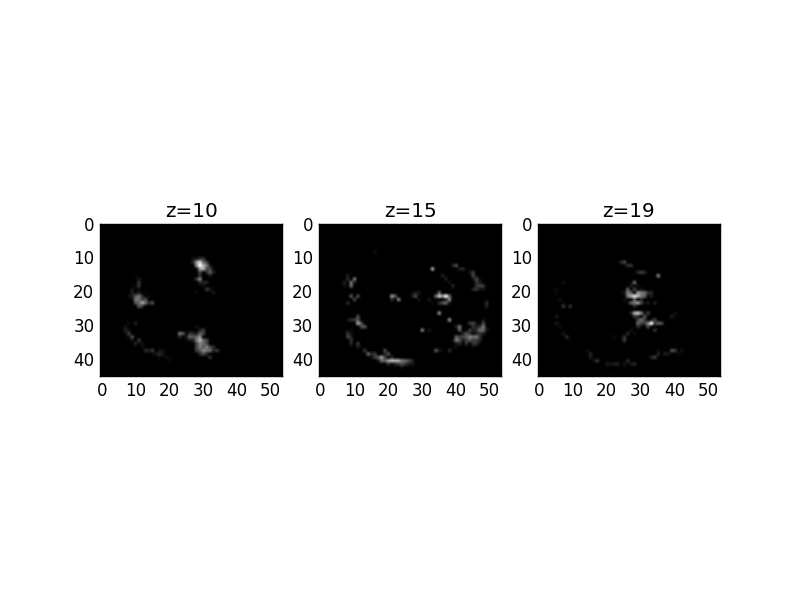
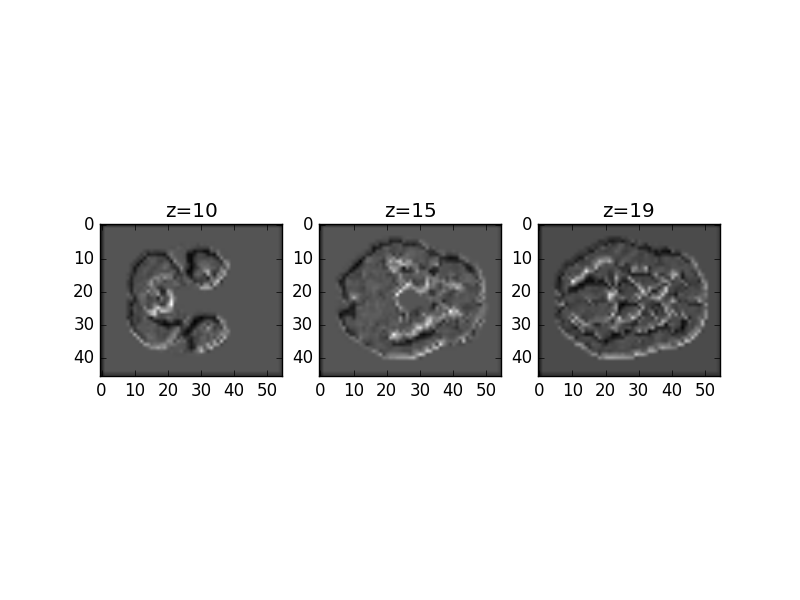
OUR AUTOENCODER GIVES RESULTSgit add .git add .!

Changed region(s): [[0.0938, 0.36, 0.9062, 0.66]]

diff --git a/ConvolutionalNN.py b/ConvolutionalNN.py
@@ -32,7 +32,7 @@ class Layers(object):
         next_layer = tf.nn.dropout(prev_layer, p_keep)
         return next_layer
 
-    def batch_norm(self, prev_layer, mu_shape, sig_shape, beta_shape,scale_shape, var_eps = 1e-6):
+    def batch_norm(self, prev_layer, mu_shape, sig_shape, beta_shape,scale_shape, var_eps = 1e-3):
         mu = self.init_weights(mu_shape)
         sigma = self.init_weights(sig_shape)
         beta = self.init_weights(beta_shape)
@@ -47,7 +47,7 @@ class Layers(object):
 
     def cost_function(self, model_output, Y):
         # print("The shape of the model output is: " + str(model_output.get_shape()))
-        cost = tf.reduce_sum(tf.square(model_output - Y))
+        cost = tf.reduce_mean(tf.square(model_output - Y))
         return cost
 
     def minimization_function(self, cost, learning_rate, beta1, beta2, opt='Rmsprop'):
@@ -61,9 +61,25 @@ class Layers(object):
 
         return train_op
 
-    def add_regularization(self, loss, wgt, lmbda):
-        nextLoss = loss + lmbda*tf.nn.l2_loss(wgt)
+    def add_regularization(self, loss, wgt, lmbda, rho, op='kl'):
+        nextLoss = None
+        if op == 'l2':
+            nextLoss = tf.add(loss, lmbda*tf.nn.l2_loss(wgt))
+        elif op == 'kl':
+            nextLoss = tf.add(loss, tf.mul(lmbda, self.kl_sparse_regularization(wgt, lmbda, rho)))
         return nextLoss
+
+    def kl_sparse_regularization(self, wgt, lmbda, rho):
+        rho_hat = tf.reduce_mean(wgt)
+        invrho = tf.sub(tf.constant(1.), rho)
+        invrhohat = tf.sub(tf.constant(1.), rho_hat)
+        logrho = tf.add(self.logfunc(rho,rho_hat), self.logfunc(invrho, invrhohat))
+        return logrho
+
+    def logfunc(self, x1, x2):
+        clippDiv = tf.clip_by_value(tf.div(x1,x2),1e-12,1e10)
+        return tf.mul( x1,tf.log(clippDiv))
+
 
     def prediction(self, model_output):
         predict_op = tf.argmax(model_output, 1)

diff --git a/run.py b/run.py
@@ -20,9 +20,15 @@ def createAutoEncoderModel():
     allNames = ["layer1_filters","layer2_filters","layer3_filters","layer4_filters","layer5_filters","layer6_filters",
                 "layer7_filters","layer8_filters","layer9_filters","layer10_filters"]
     allRelu = [True]*4
-    allBatch = [True]*4
+    allBatch = [False]*4
+
+    # We do not need ReLUs in the encoder layer and the decode layer
+    allRelu[1] = False
+    allRelu[3] = False
+    allBatch[1] = False
+    allBatch[3] = False
     layer_outputs, weights, weight_shapes, encode, decode = cae.build_model(2, allFilters, allStrides, allNames, allRelu, allBatch)
-    
+
     print("Setting up the Training model of the Autoencoder")
     cost, train_op = cae.train()
     return layer_outputs, weights, weight_shapes, encode, decode, cost, train_op
@@ -68,16 +74,18 @@ def main():
         init_op.run()
         tf.train.start_queue_runners() 
 
-        for i in range(1000):
+        for i in range(100):
             print("Running iteration {} of TF Session".format(i))
             _, loss = sess.run([train_op, cost])
             print("The current loss is: " + str(loss))
 
-        # encodeLayer = sess.run(encode)
-        # decodeLayer = sess.run(decode)
-        # print("Shape of encoded matrix: " + str(encodeLayer[16,:,:,:].shape))
-        # mat2visual(encodeLayer[16,:,:,:, 0], [10, 15, 19], 'encodedImage.png')
-        # mat2visual(decodeLayer[16,:,:,:, 0], [15, 25, 35], 'decodedImage.png')
+        encodeLayer = np.asarray(sess.run(encode))
+        decodeLayer = np.asarray(sess.run(decode))
+        print("Shape of encodeLayer: "+ str(encodeLayer))
+        print(type(encodeLayer))
+        print(encodeLayer.shape)
+        mat2visual(encodeLayer[0, 16,:,:,:, 0], [10, 15, 19], 'encodedImage.png')
+        mat2visual(decodeLayer[0, 16,:,:,:, 0], [40, 55, 60], 'decodedImage.png')
 
 
 

diff --git a/models.py b/models.py
@@ -8,7 +8,7 @@ import copy
 
 class ConvAutoEncoder(CNNLayers):
 
-    def __init__(self, input_shape, output_shape, batch_size=1, learning_rate=1e-3, beta1=0.99, beta2=0.99, op='Rmsprop'):
+    def __init__(self, input_shape, output_shape, batch_size=1, learning_rate=1e-3, beta1=0.99, beta2=0.99, rho=0.4, lmbda = 0.6, op='Rmsprop'):
         CNNLayers.__init__(self)
         self.input, self.output, self.p_keep = self.createVariables(input_shape, output_shape, batch_size)
         self.input_shape = input_shape
@@ -17,6 +17,8 @@ class ConvAutoEncoder(CNNLayers):
         self.learning_rate = learning_rate
         self.beta1 = beta1
         self.beta2 = beta2
+        self.rho = rho
+        self.lmbda = lmbda
         self.op = op
 
 
@@ -36,6 +38,8 @@ class ConvAutoEncoder(CNNLayers):
 
         encode.append(prev_layer)
         self.encode = prev_layer
+
+        print("The encoded image size is: " + str(prev_layer.get_shape().as_list()))
         
         tot = 2*num_layers_encode #4 layers
         for i in range(num_layers_encode, tot):
@@ -46,13 +50,16 @@ class ConvAutoEncoder(CNNLayers):
 
         decode.append(prev_layer)
         self.decode = prev_layer
+        self.layer_outputs = layer_outputs
+        self.weights = weights
 
         return layer_outputs, weights, layer_shapes, encode, decode
 
     def train(self):
         cost = self.cost_function(self.decode, self.input)
-        train_op = self.minimization_function(cost, self.learning_rate, self.beta1, self.beta2, self.op)
-        return cost, train_op
+        cumCost = self.add_regularization( cost, self.encode, self.lmbda, self.rho, op='kl')
+        train_op = self.minimization_function(cumCost, self.learning_rate, self.beta1, self.beta2, self.op)
+        return cumCost, train_op
 
 
 # class ConvNN(CNNLayers):
